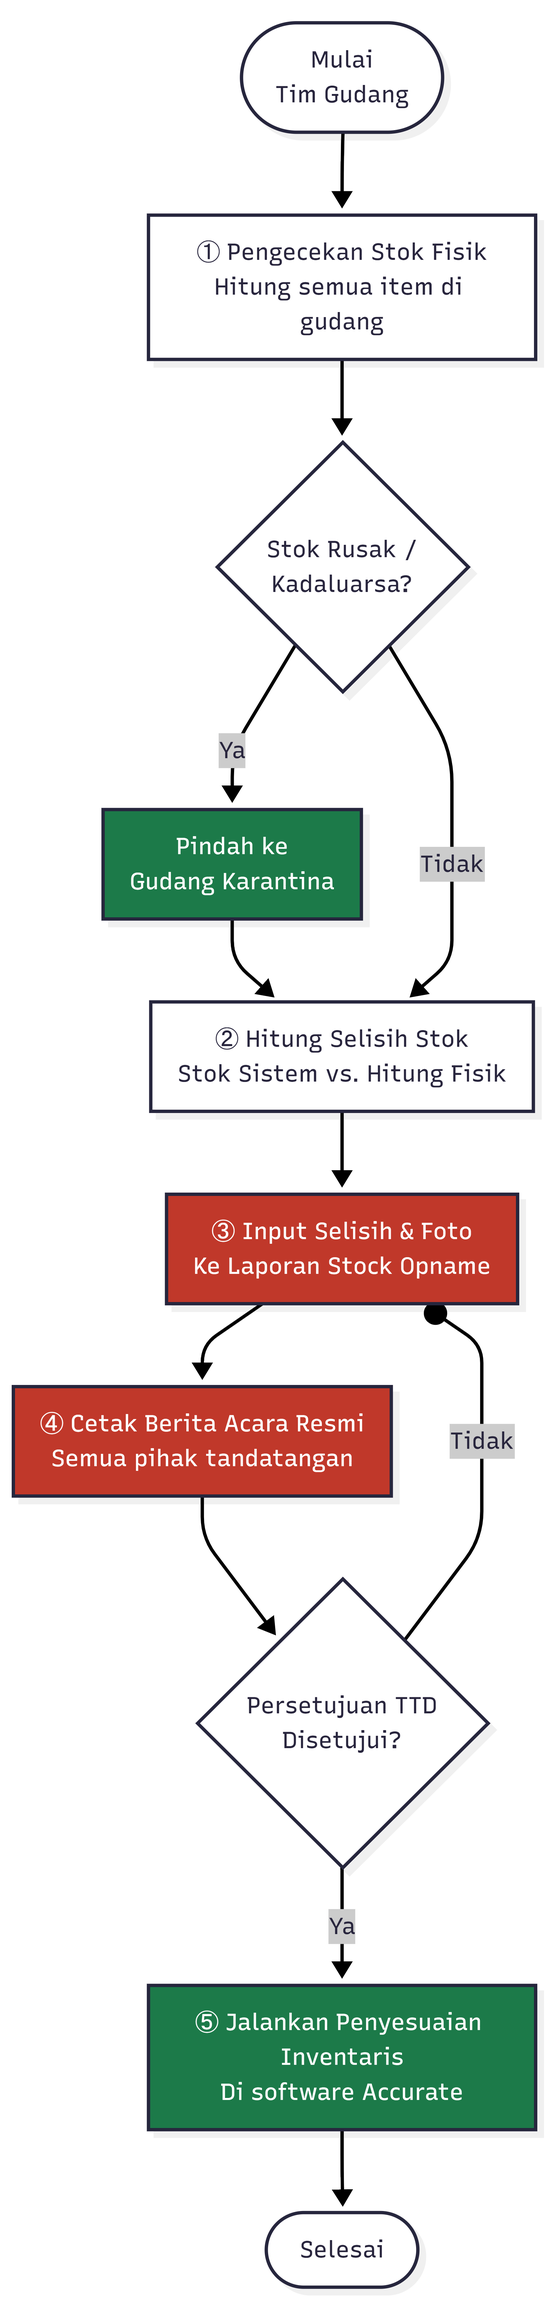
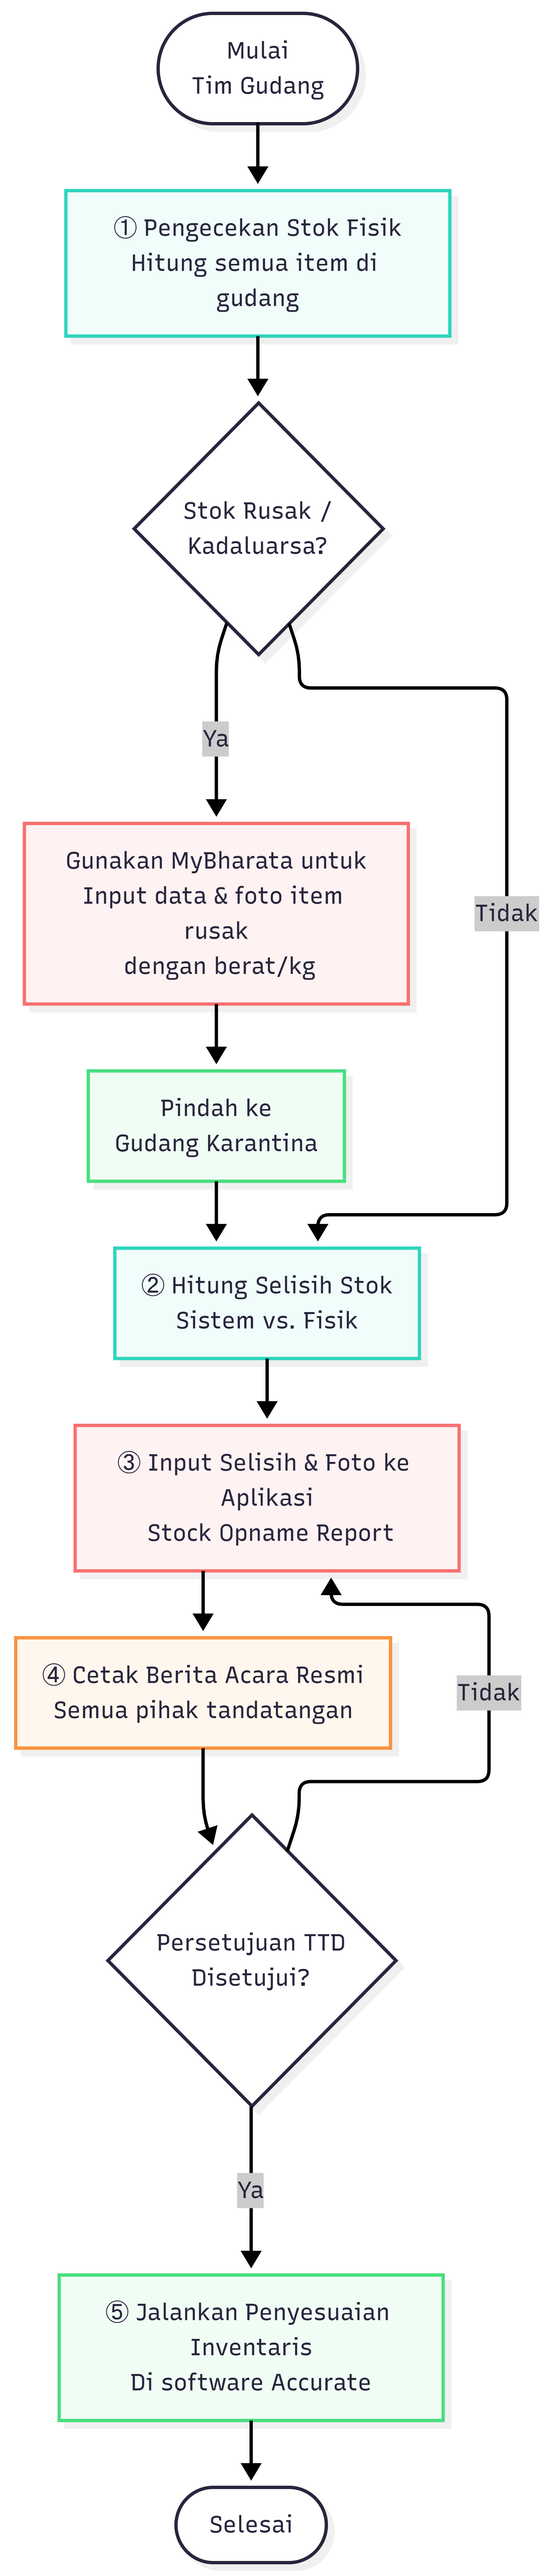
manufacture: revise stokopname workflow

diff --git a/Additional documents/ManufakturWarehouse/Issues/Stok Pengecekan Fisik Flow Source.md b/Additional documents/ManufakturWarehouse/Issues/Stok Pengecekan Fisik Flow Source.md
@@ -1,52 +1,62 @@
 
 Mermaid file
 ```
-flowchart TD
+---
 
-    START([Mulai\nTim Gudang])
+config:
 
-  
+  layout: elk
 
-    N1[① Pengecekan Stok Fisik\nHitung semua item di gudang]
+---
 
-    D1{Stok Rusak /\nKadaluarsa?}
+flowchart TB
 
-    KARANTINA[Pindah ke\nGudang Karantina]
+    START(["Mulai\nTim Gudang"]) --> N1["① Pengecekan Stok Fisik\nHitung semua item di gudang"]
 
-    N2[② Hitung Selisih Stok\nStok Sistem vs. Hitung Fisik]
+    N1 --> D1{"Stok Rusak /\nKadaluarsa?"}
 
-    N3[③ Input Selisih & Foto\nKe Laporan Stock Opname]
+    D1 -- Ya --> APP["Gunakan MyBharata untuk\nInput data &amp; foto item rusak\n dengan berat/kg"]
 
-    N4[④ Cetak Berita Acara Resmi\nSemua pihak tandatangan]
+    APP --> KARANTINA["Pindah ke\nGudang Karantina"]
 
-    D2{Persetujuan TTD\nDisetujui?}
-
-    N5[⑤ Jalankan Penyesuaian Inventaris\nDi software Accurate]
-
-    FINISH([Selesai])
-
-  
-
-    START --> N1 --> D1
-
-    D1 -- Ya --> KARANTINA --> N2
+    KARANTINA --> N2["② Hitung Selisih Stok\nSistem vs. Fisik"]
 
     D1 -- Tidak --> N2
 
-    N2 --> N3 --> N4 --> D2
+    N2 --> N3["③ Input Selisih & Foto ke Aplikasi\n Stock Opname Report"]
 
-    D2 -- Ya --> N5 --> FINISH
+    N3 --> N4["④ Cetak Berita Acara Resmi\nSemua pihak tandatangan"]
 
-    D2 -- Tidak --o N3
+    N4 --> D2{"Persetujuan TTD\nDisetujui?"}
+
+    D2 -- Ya --> N5["⑤ Jalankan Penyesuaian Inventaris\nDi software Accurate"]
+
+    N5 --> FINISH(["Selesai"])
+
+    D2 -- Tidak --> N3
 
   
 
-    style KARANTINA fill:#1a7a4a,color:#fff
+     N1:::teal
 
-    style N3 fill:#c0392b,color:#fff
+     APP:::red
 
-    style N4 fill:#c0392b,color:#fff
+     KARANTINA:::green
 
-    style N5 fill:#1a7a4a,color:#fff
+     N2:::teal
+
+     N3:::red
+
+     N4:::orange
+
+     N5:::green
+
+    classDef teal stroke:#2dd4bf,fill:#f0fdfa
+
+    classDef green stroke:#4ade80,fill:#f0fdf4
+
+    classDef red stroke:#f87171,fill:#fef2f2
+
+    classDef orange stroke:#fb923c,fill:#fff7ed
 
 ```
